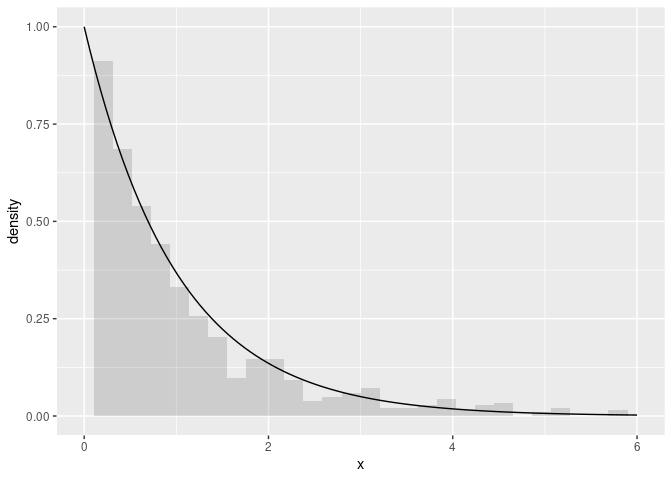
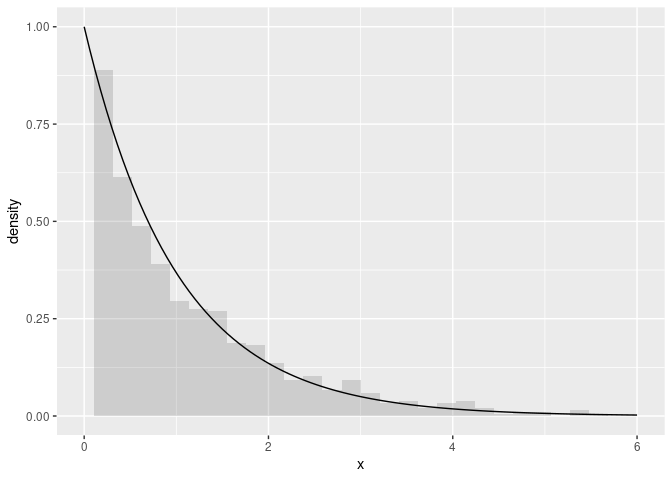
updates

diff --git a/README.md b/README.md
@@ -17,11 +17,24 @@ You can install the development version of `algebraic.mle` from
 [GitHub](https://github.com/) with:
 
 ``` r
-# install.packages("devtools")
+#install.packages("devtools")
 devtools::install_github("queelius/algebraic.mle")
+#> Downloading GitHub repo queelius/algebraic.mle@HEAD
+#> 
+#>      checking for file ‘/tmp/RtmpoJ0zsT/remotes6d18d50f6e26a/queelius-algebraic.mle-3e1c165/DESCRIPTION’ ...  ✓  checking for file ‘/tmp/RtmpoJ0zsT/remotes6d18d50f6e26a/queelius-algebraic.mle-3e1c165/DESCRIPTION’
+#>   ─  preparing ‘algebraic.mle’:
+#>    checking DESCRIPTION meta-information ...  ✓  checking DESCRIPTION meta-information
+#>   ─  checking for LF line-endings in source and make files and shell scripts
+#>   ─  checking for empty or unneeded directories
+#>    Omitted ‘LazyData’ from DESCRIPTION
+#>   ─  building ‘algebraic.mle_0.1.0.tar.gz’
+#>      
+#> 
+#> Installing package into '/usr/local/lib/R/site-library'
+#> (as 'lib' is unspecified)
 ```
 
-## MLE of rate parameter in exponential distribution
+## MLE of exponential distribution’s rate parameter
 
 In what follows, to demonstrate the `algebraic.mle` R package, we
 consider a random sample from exponentially distributed random variable
@@ -45,16 +58,16 @@ print(x)
 #> # A tibble: 1,000 × 1
 #>         x
 #>     <dbl>
-#>  1 0.0262
-#>  2 1.34  
-#>  3 0.296 
-#>  4 2.30  
-#>  5 0.490 
-#>  6 1.60  
-#>  7 0.659 
-#>  8 1.45  
-#>  9 1.08  
-#> 10 0.520 
+#>  1 0.146 
+#>  2 0.182 
+#>  3 1.35  
+#>  4 0.0481
+#>  5 1.25  
+#>  6 0.189 
+#>  7 1.43  
+#>  8 0.111 
+#>  9 0.0494
+#> 10 0.617 
 #> # … with 990 more rows
 ```
 
@@ -66,8 +79,6 @@ library(ggplot2)
 ggplot(x, aes(x=x)) + geom_histogram(aes(y=..density..),alpha=.2) +
     xlim(0,6) + 
     geom_function(fun=dexp)
-#> Warning: Removed 2 rows containing non-finite values (stat_bin).
-#> Warning: Removed 2 rows containing missing values (geom_bar).
 ```
 
 <img src="man/figures/README-unnamed-chunk-5-1.png" width="100%" />
@@ -86,24 +97,24 @@ rate.hat <- mle_exp(x$x)
 summary(rate.hat)
 #> Maximum likelihood estimator, of type mle_exp ,
 #> is normally distributed with mean
-#> [1] 0.9775105
+#> [1] 0.9509951
 #> and variance-covariance
 #>              [,1]
-#> [1,] 0.0009555267
+#> [1,] 0.0009043917
 #> ---
-#> The asymptotic mean squared error 0.0009555267 
+#> The asymptotic mean squared error 0.0009043917 
 #> The asymptotic 95% confidence interval is
 #>       2.5 %   97.5 %
-#> 1 0.9266654 1.028356
-#> The log-likelihood is -1022.746 
-#> The AIC is 2047.493
+#> 1 0.9015292 1.000461
+#> The log-likelihood is -1050.246 
+#> The AIC is 2102.493
 ```
 
 We can show the point estimator with:
 
 ``` r
 point(rate.hat)
-#> [1] 0.9775105
+#> [1] 0.9509951
 ```
 
 We can show the Fisher information and variance-covariance matrices
@@ -112,10 +123,10 @@ with:
 ``` r
 fisher_info(rate.hat)
 #>          [,1]
-#> [1,] 1046.543
+#> [1,] 1105.716
 vcov(rate.hat)
 #>              [,1]
-#> [1,] 0.0009555267
+#> [1,] 0.0009043917
 ```
 
 (If `rate.hat` had been a vector, `vcov` would have output a
@@ -127,7 +138,7 @@ We can show the confidence interval with:
 ``` r
 confint(rate.hat)
 #>       2.5 %   97.5 %
-#> 1 0.9266654 1.028356
+#> 1 0.9015292 1.000461
 ```
 
 ## Sampling distribution of the MLE
@@ -195,46 +206,41 @@ appear to be quite similar otherwise.
 
 ## Invariance property of the MLE
 
-An interesting property of an MLE *λ̂* is that the MLE of *g*(*λ*) is
-given by *g*(*λ̂*).
+An interesting property of an MLE *λ̂* is that the MLE of *f*(*λ*) is
+given by *f*(*λ̂*).
 
-The method `fn_distr` applied to `mle` objects takes a function of the
-`mle` and a simulation sample size and then computes its MLE, i.e.,
-returns an object of type `fn_mle`, which is also an MLE with a an
-asymptotic sampling distribution.
+The method `rmap` applied to an object `x` for which
+`is(x,"mle") == TRUE` and a function `f` compatible with `point(x)` (and
+optionally a simulation sample size) computes the MLE of `f(x)`.
 
 ### Example
 
-Suppose we are interested in *g*(*λ*) = 2*λ*:
+We know that the MLE *λ̂* ∼ *N*(*λ*,*λ*<sup>2</sup>/*n*). We seek a
+transformation *g*(*λ̂*) such that its expectation is 2*λ*, i.e.,
+*g*(*λ*) = 2*λ*:
 
 ``` r
-g <- function(lambda) 2*lambda
-
-g.hat <- fn_distr(rate.hat,g)
-point(g.hat)
-#> [1] 1.955021
-vcov(g.hat)
-#>            [,1]
-#> [1,] 0.00384802
-confint(g.hat)
-#>      2.5 %   97.5 %
-#> 1 1.852987 2.057055
+f <- function(lambda) 2*lambda
 ```
 
-Let’s compare this with a simulation of the actual distribution.
-
-We know that the MLE *λ̂* ∼ *N*(*λ*,*λ*<sup>2</sup>/*n*). We seek a
-transformation *g*(*λ̂*) such taht its expectation is 2*λ*, i.e.,
-*g*(*λ*) = 2*λ*. Then, var (*g*(*λ̂*)) = 4*λ*<sup>2</sup>/*n*. Letting
-*λ* = 1, we see that *g*(*λ̂*) ∼ *N*(2*λ*,4*λ*<sup>2</sup>/*n*). We
-simulate drawing *n* = 1000 observations from
+We compute the MLE of 2*λ̂* with:
 
 ``` r
-data4 <- rnorm(1000,2,2/sqrt(1000))
-mean(data4)
-#> [1] 2.005012
-var(data4)
-#> [1] 0.003933318
+g.hat <- rmap(rate.hat,f)
+```
+
+Then, var (*f*(*λ̂*)) = 4*λ*<sup>2</sup>/*n*. Letting *λ* = 1, we see
+that, asymptotically, *g*(*λ̂*) ∼ *N*(2,4/*n*).
+
+We expected a mean of 2 and a variance of 4/*n* = 0.004, which is pretty
+close to what we obtained:
+
+``` r
+point(g.hat)
+#> [1] 1.90199
+vcov(g.hat)
+#>             [,1]
+#> [1,] 0.003469069
 ```
 
 ## Weighted MLE: a weighted sum of maximum likelihood estimators
@@ -275,34 +281,34 @@ mle.wt <- mle_weighted(mles)
 summary(mle.wt)
 #> Maximum likelihood estimator, of type mle_weighted ,
 #> is normally distributed with mean
-#>          [,1]
-#> [1,] 1.004032
+#>           [,1]
+#> [1,] 0.9592375
 #> and variance-covariance
-#>             [,1]
-#> [1,] 0.001013711
+#>              [,1]
+#> [1,] 0.0009211142
 #> ---
-#> The asymptotic mean squared error 0.001013711 
+#> The asymptotic mean squared error 0.0009211142 
 #> The asymptotic 95% confidence interval is
 #>       2.5 %   97.5 %
-#> 1 0.9516617 1.056402
-#> The log-likelihood is -987.5218 
-#> The AIC is 1977.044
+#> 1 0.9093164 1.009159
+#> The log-likelihood is -1040.018 
+#> The AIC is 2082.035
 
 mle.tot <- mle_exp(data3)
 summary(mle.tot)
 #> Maximum likelihood estimator, of type mle_exp ,
 #> is normally distributed with mean
-#> [1] 1.00964
+#> [1] 0.9602567
 #> and variance-covariance
-#>             [,1]
-#> [1,] 0.001019373
+#>              [,1]
+#> [1,] 0.0009220928
 #> ---
-#> The asymptotic mean squared error 0.001019373 
+#> The asymptotic mean squared error 0.0009220928 
 #> The asymptotic 95% confidence interval is
-#>      2.5 %   97.5 %
-#> 1 0.957124 1.062157
-#> The log-likelihood is -990.4059 
-#> The AIC is 1982.812
+#>       2.5 %   97.5 %
+#> 1 0.9103091 1.010204
+#> The log-likelihood is -1040.555 
+#> The AIC is 2083.109
 ```
 
 We see that *θ̂* and *θ̂*<sub>*w*</sub> model approximately the same
